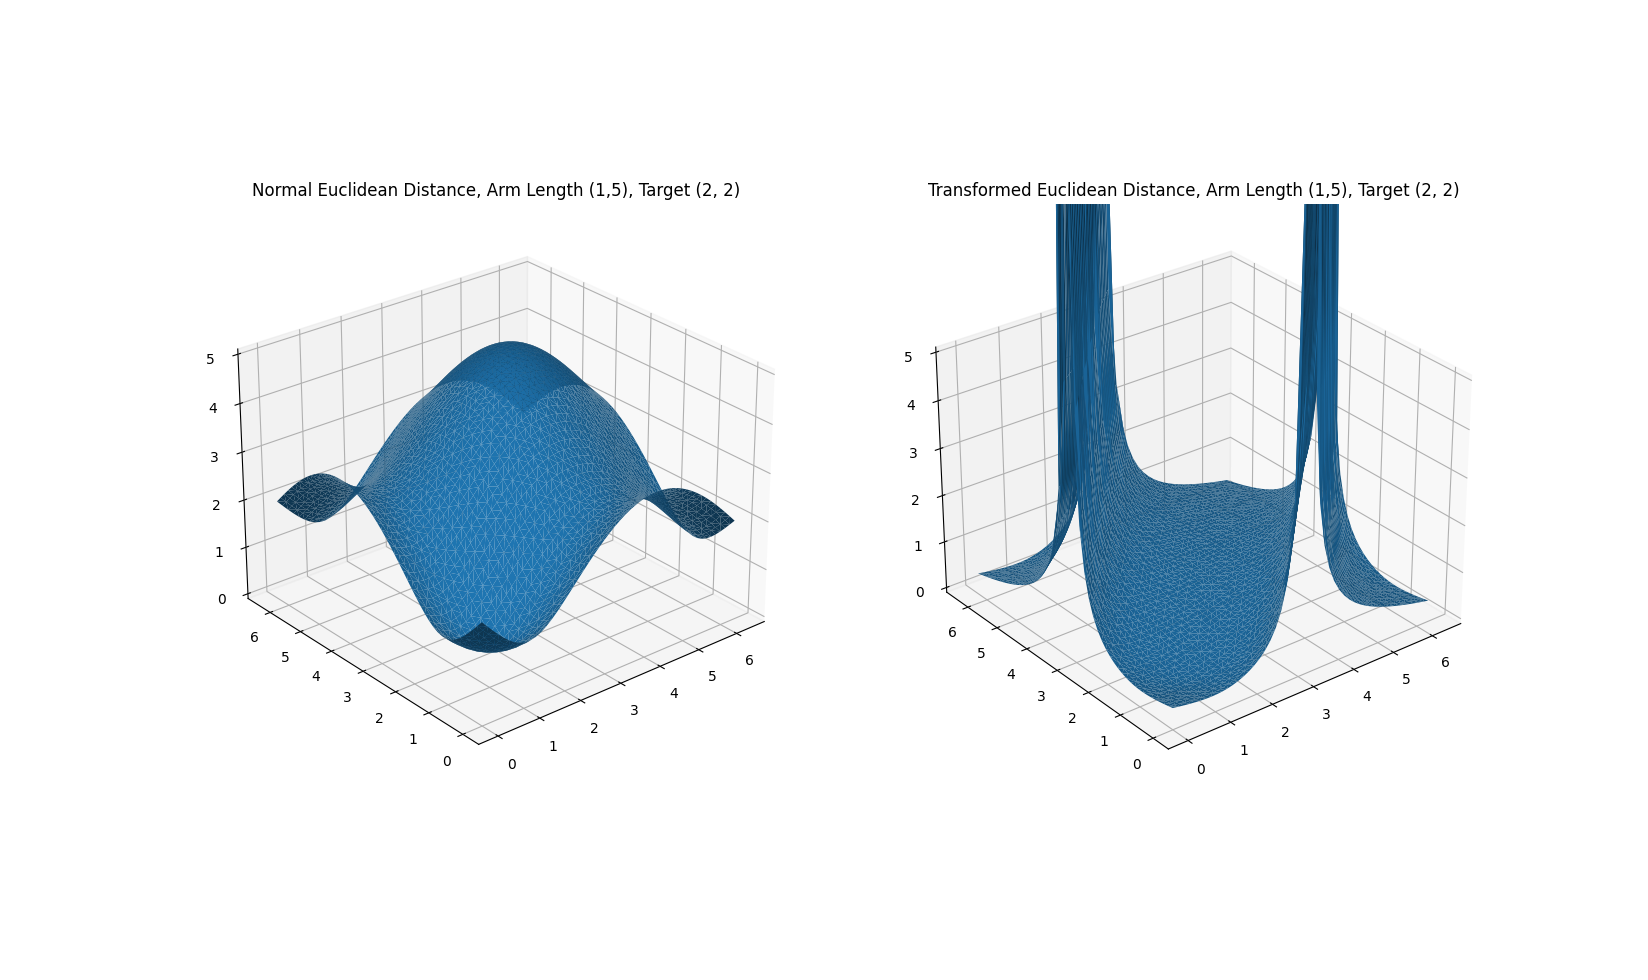
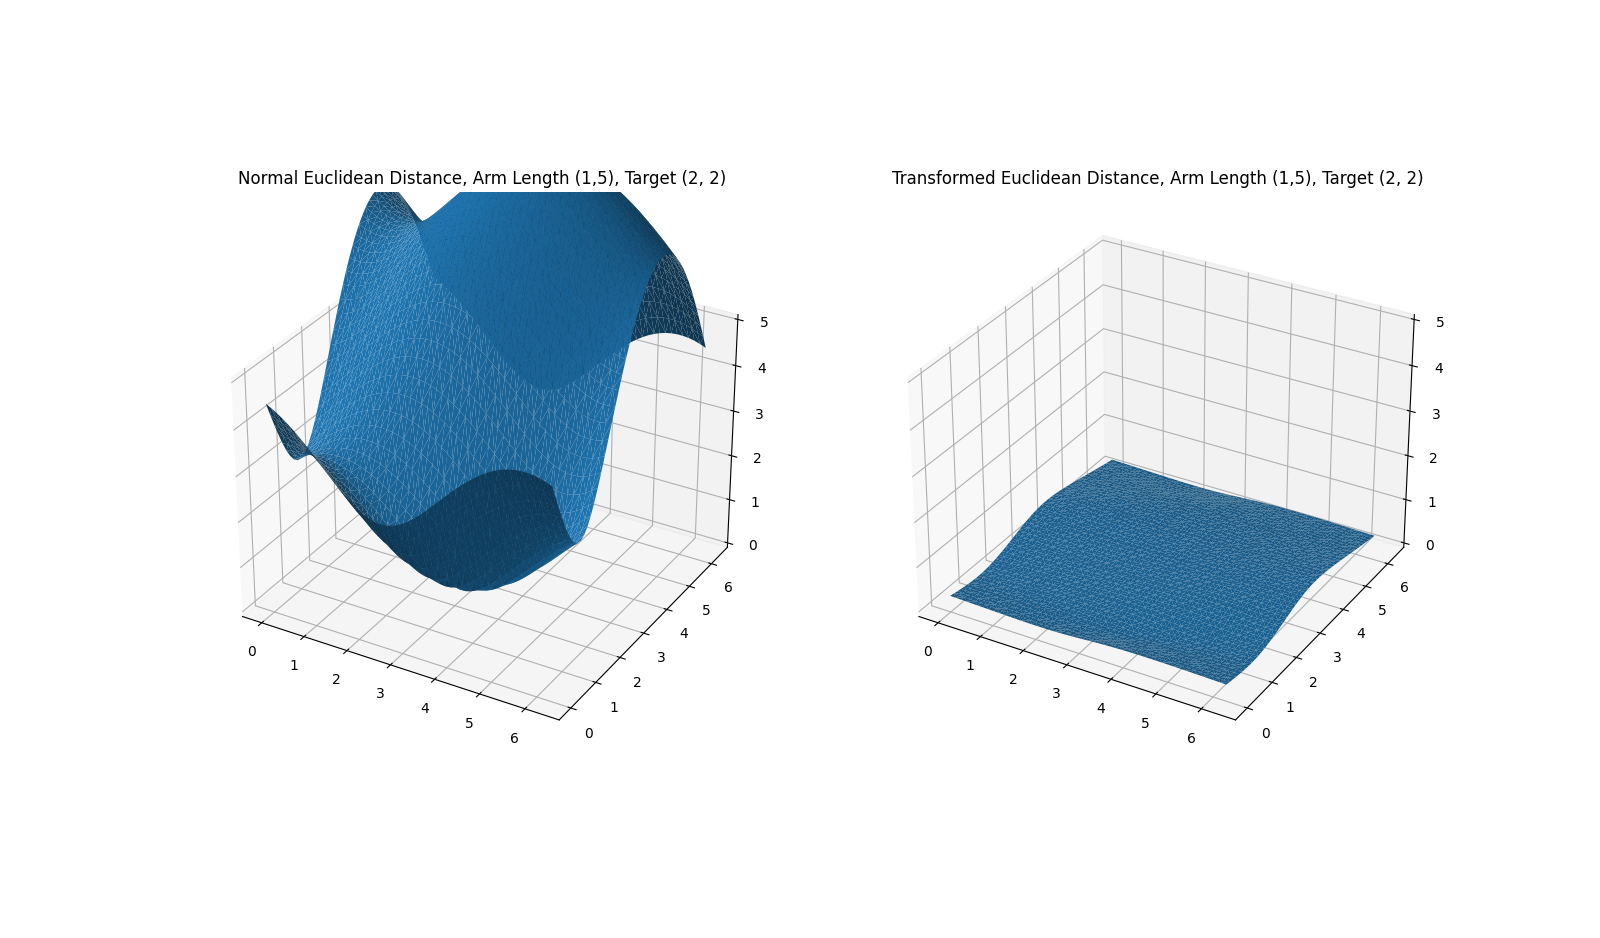
it will do

diff --git a/point_to_point.py b/point_to_point.py
@@ -63,49 +63,65 @@ def calculate_arm_pos(final_pos, target, radius=1):
     return [np.linalg.norm(norm_d), np.linalg.norm(trans_d)]
 
 
-def go_brr(arm_length=[1, 1], target=[2, 0]):
-    first_rot = np.linspace(0, 2 * np.pi, 50)
-    second_rot = np.linspace(0, 2 * np.pi, 50)
-
+def go_brr(r1, r2, rm_length=[1, 1], target=[2, 0]):
     rst = np.array([0, 0, 0, 0])
-    for r1 in first_rot:
-        for r2 in second_rot:
-            end = [
-                arm_length[0] * np.cos(r1) + arm_length[1] * np.cos(r2),
-                arm_length[0] * np.sin(r1) + arm_length[1] * np.sin(r2)
-            ]
-            bruh = calculate_arm_pos(end, target)
-            proto_row = [r1, r2, bruh[0], bruh[1]]
-            rst = np.vstack((rst, proto_row))
+    end = [np.cos(r1) + np.cos(r2), np.sin(r1) + np.sin(r2)]
+    bruh = calculate_arm_pos(end, target)
+    proto_row = [r1, r2, bruh[0], bruh[1]]
+    rst = np.vstack((rst, proto_row))
 
     rst = rst[1:]
     return rst.T
 
 
-fig = plt.figure(figsize=plt.figaspect(0.5))
+fig = plt.figure(figsize=plt.figaspect(0.3))
+
+ax0 = fig.add_subplot(1, 3, 1)
 
 #===============
 #  First subplot
 #===============
 # set up the axes for the first plot
-ax1 = fig.add_subplot(1, 2, 1, projection='3d')
+ax1 = fig.add_subplot(1, 3, 2, projection='3d')
 
 #===============
 # Second subplot
 #===============
 # set up the axes for the second plot
-ax2 = fig.add_subplot(1, 2, 2, projection='3d')
+ax2 = fig.add_subplot(1, 3, 3, projection='3d')
 
+ax0.set_xlim(-5, 5)
+ax0.set_ylim(-5, 5)
 ax1.set_zlim(0, 5)
 ax2.set_zlim(0, 5)
+ax1.set_xlim(0, 7)
+ax2.set_xlim(0, 7)
+ax1.set_ylim(0, 7)
+ax2.set_ylim(0, 7)
 if __name__ == "__main__":
-    mtx = go_brr(arm_length=[1, 5], target=[2, 2])
-    ax1.plot_trisurf(mtx[0], mtx[1], mtx[2])
-    ax1.set_title("Normal Euclidean Distance, Arm Length (1,5), Target (2, 2)")
+    rot1, rot2 = 0.7, 1
+    mtx = go_brr(rot1, rot2)
 
-    ax2.plot_trisurf(mtx[0], mtx[1], mtx[3])
-    ax2.set_title(
-        "Transformed Euclidean Distance, Arm Length (1,5), Target (2, 2)")
+    arr = [[np.cos(rot1), np.sin(rot1)],
+           [np.cos(rot1) + np.cos(rot2),
+            np.sin(rot1) + np.cos(rot2)]]
+    theta = np.linspace(0, 2 * np.pi, 100)
 
-    print(mtx[0][539], mtx[1][539])
+    # Circle of inversion
+    r = np.linalg.norm(np.array(arr[0]))
+    x1 = r * np.cos(theta)
+    x2 = r * np.sin(theta)
+
+    v = [[0, 0]]
+    for vector in arr:
+        v = np.linspace(v[-1], vector, 100)
+        ax0.plot(v.T[0], v.T[1])
+    ax0.plot(x1, x2)
+    ax0.plot(2, 0, "go")
+    ax1.plot(mtx[0], mtx[1], mtx[2], "go")
+    ax1.set_title("Normal Euclidean Distance")
+
+    ax2.plot(mtx[0], mtx[1], mtx[3], "go")
+    ax2.set_title("Transformed Euclidean Distance")
+
     plt.show()
